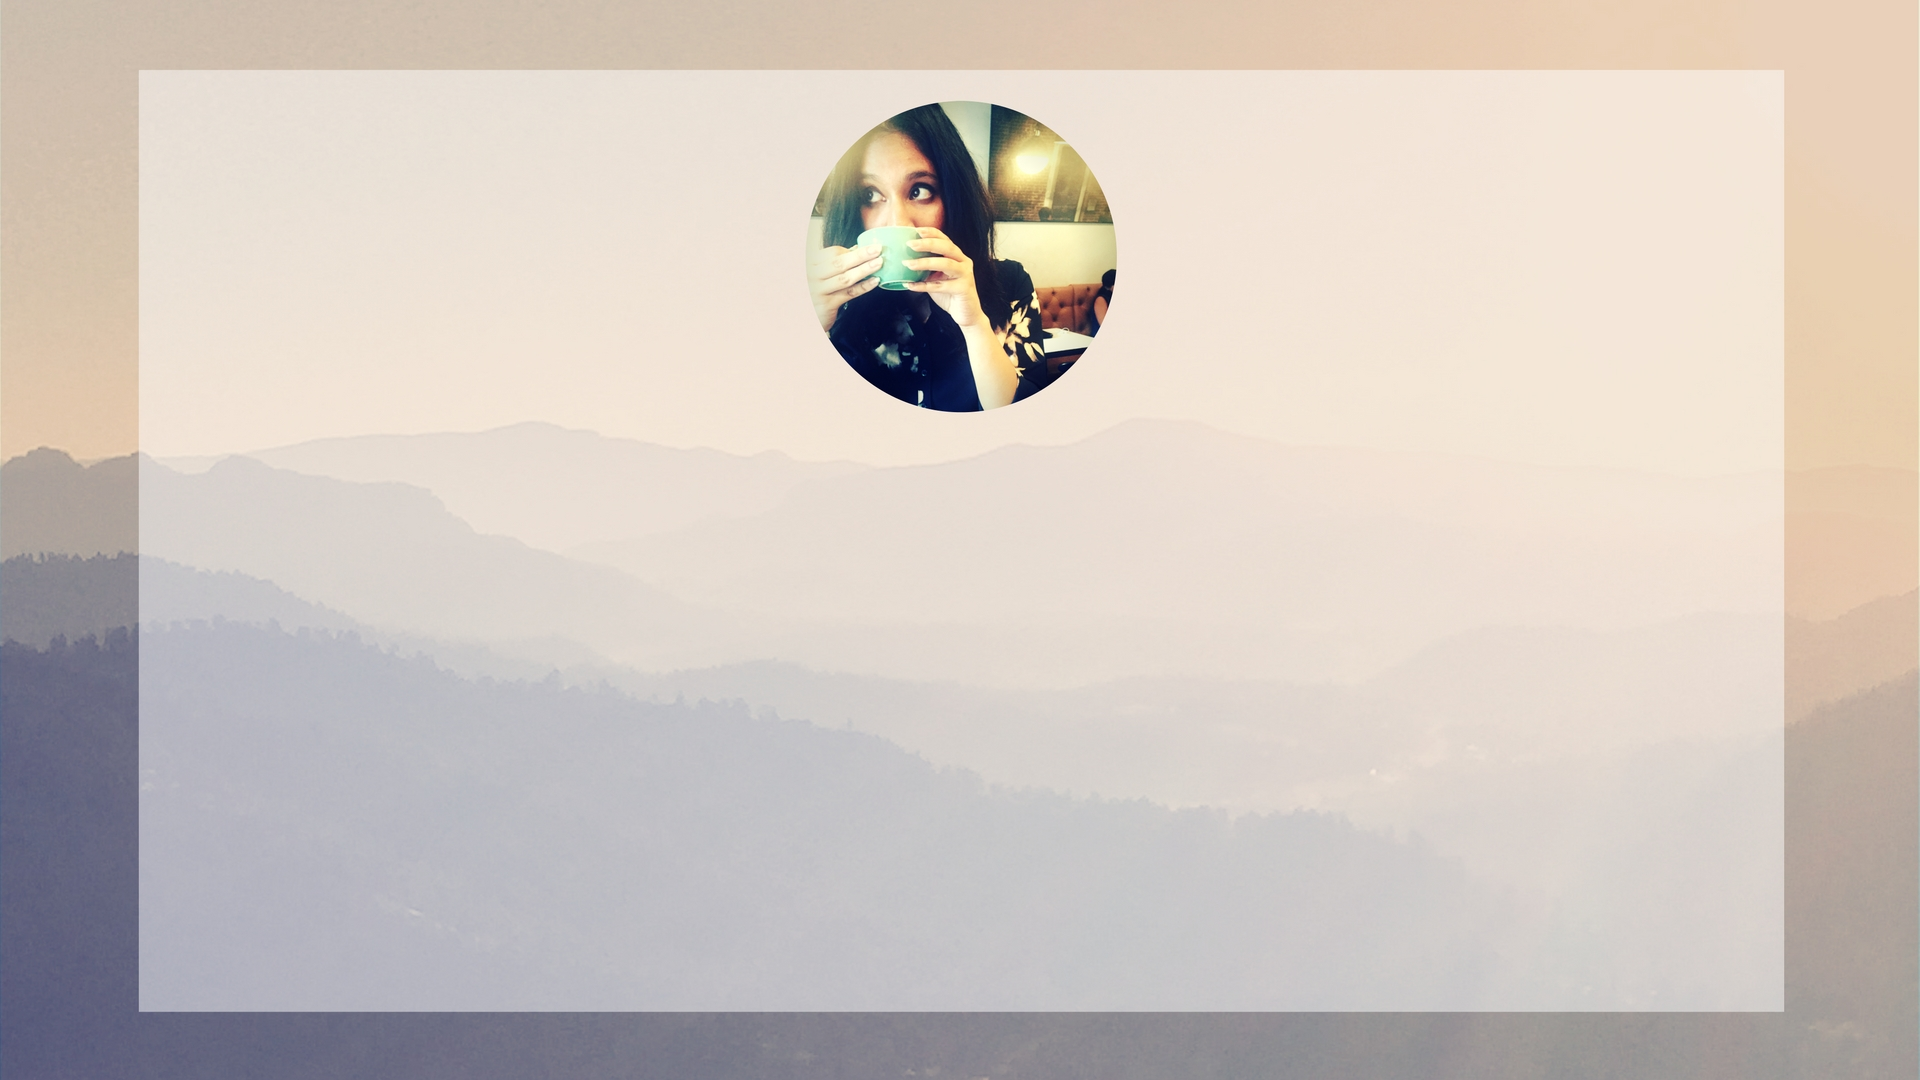
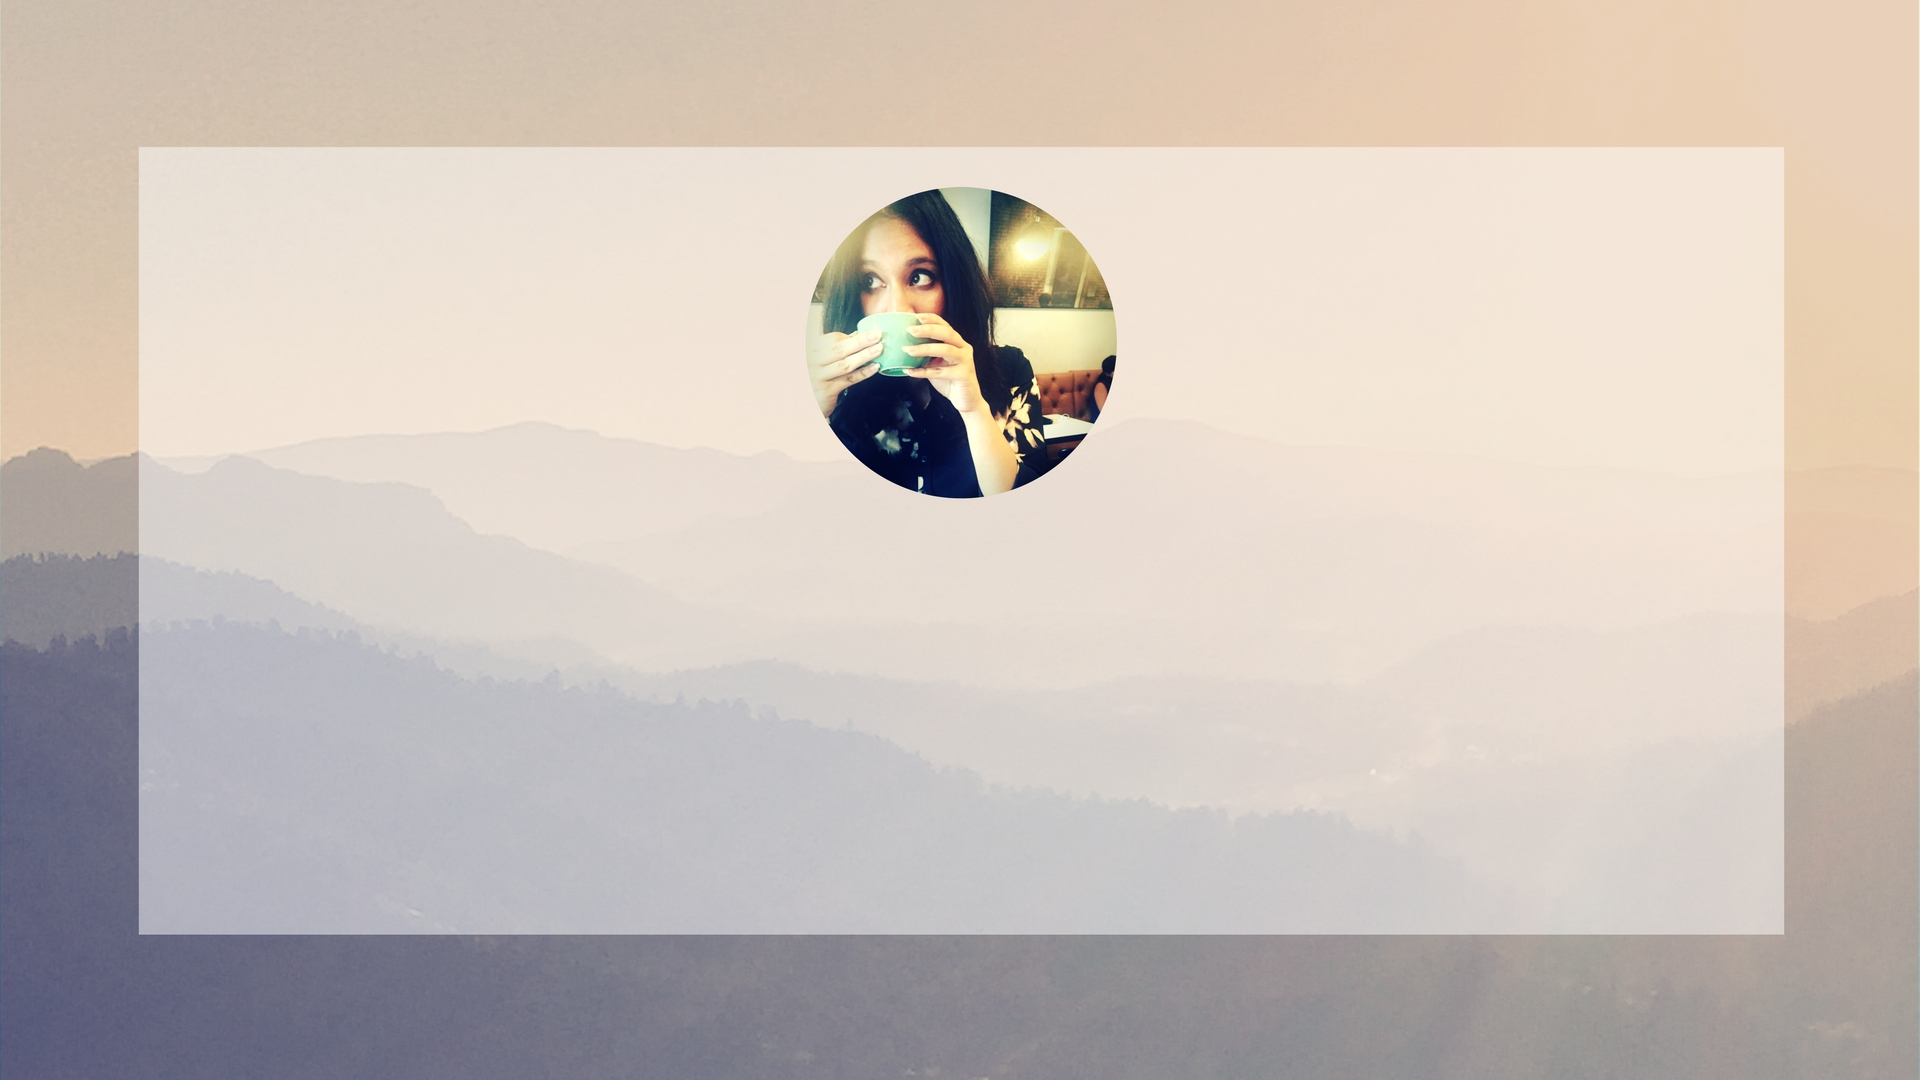
animation

Changed region(s): [[0.0625, 0.0611, 0.9375, 0.4583], [0.0625, 0.8556, 0.9375, 0.9472]]

diff --git a/css/style.css b/css/style.css
@@ -7,14 +7,10 @@ html {
 
 html { 
   background: url('/assets/fullbg.jpg') no-repeat center center fixed; 
-  background-size: 100% 100%;
-
-  height: 100%;
-
-  position: absolute; 
-
-  width: 100%;
-  
+  -webkit-background-size: cover;
+  -moz-background-size: cover;
+  -o-background-size: cover;
+  background-size: cover;
   overflow: hidden;
 }
 
